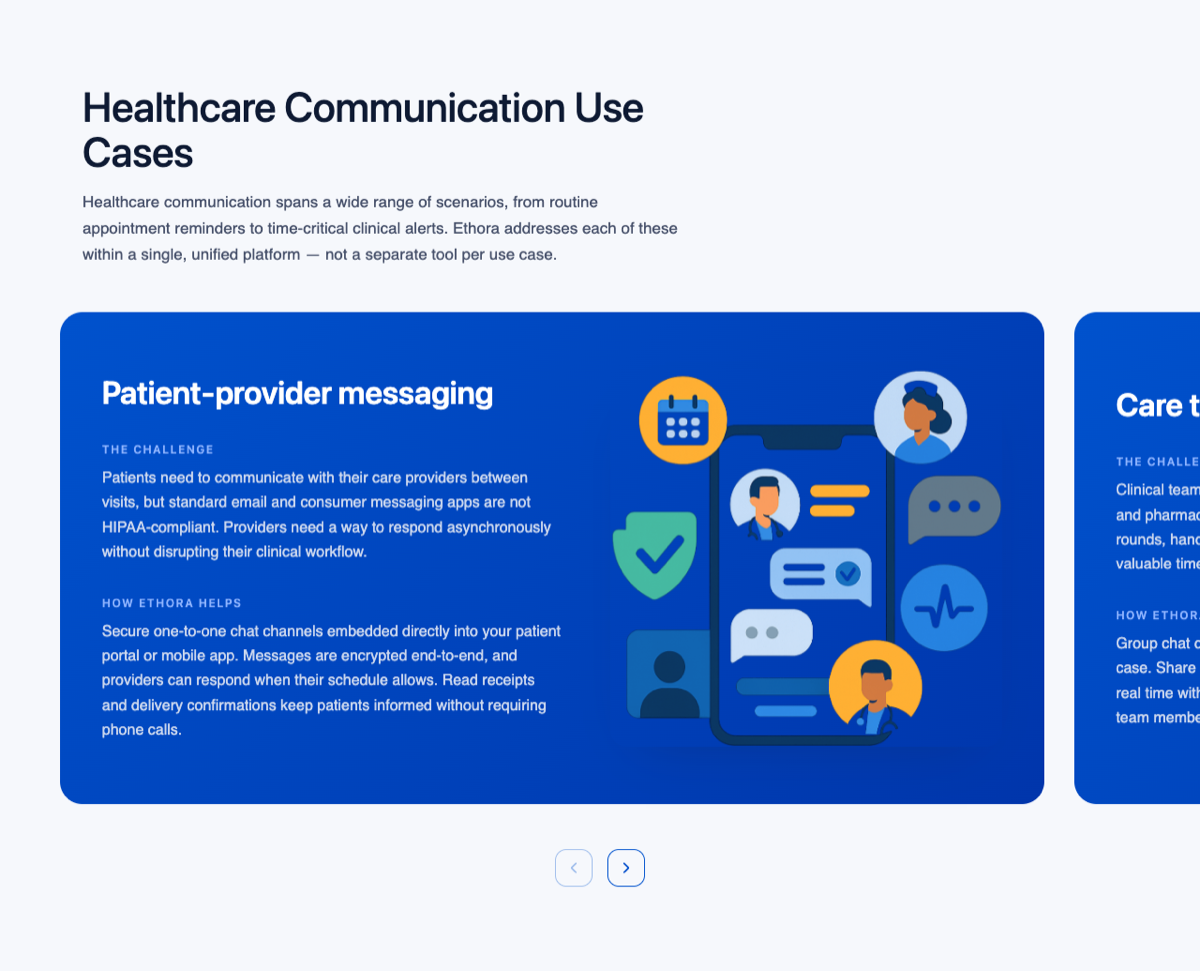
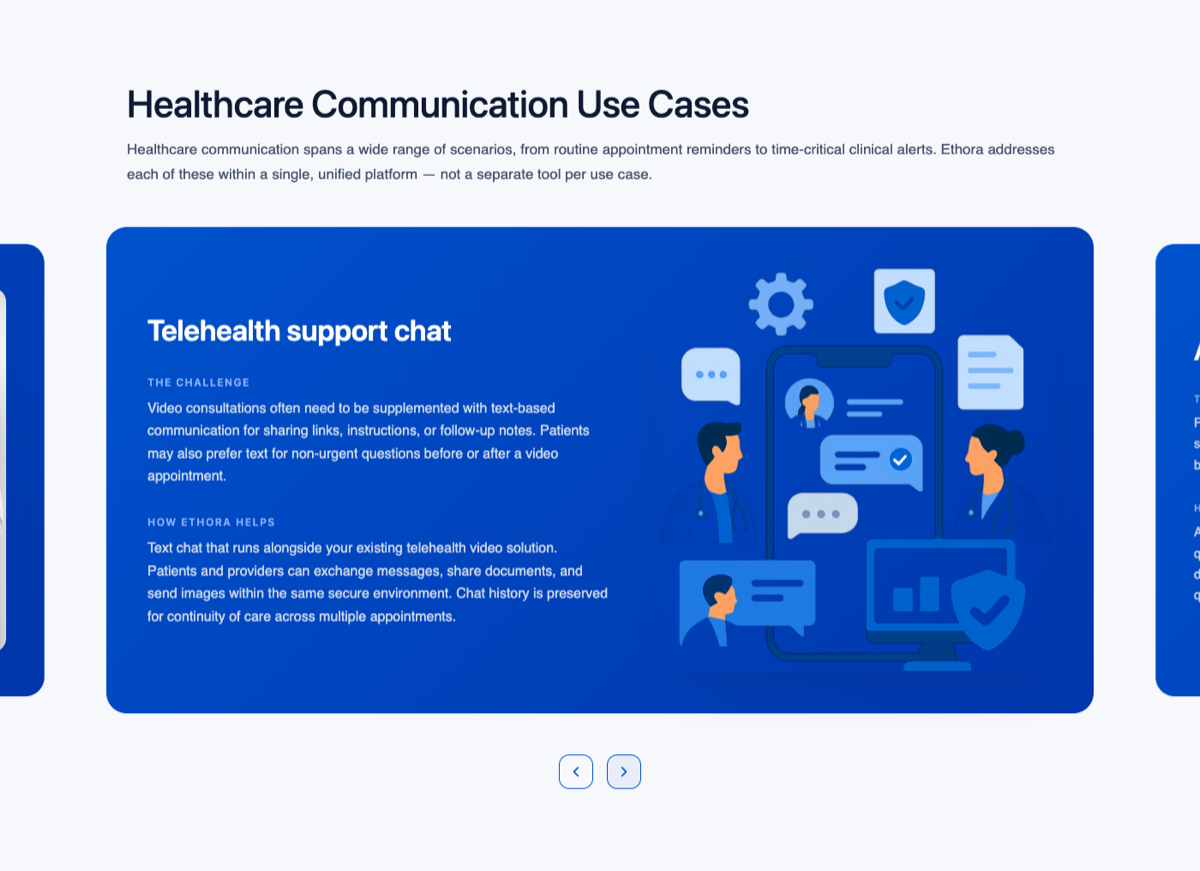
Cards carousel: centred active card, equal peeks, active-scale animation

diff --git a/references/BLOCKS.md b/references/BLOCKS.md
@@ -337,8 +337,7 @@ Row of case-study cards.
 ## 13. Cards carousel — `section-cards-carousel.php`
 
 Title + lead on top, then a **full-width** track of dark brand cards: each card has a
-**text column on the left and an image on the right**; the next card **peeks** from the
-right edge. Switch with the **centred** prev/next buttons (the brand `.slider-btn`
+**text column on the left and an image on the right**; the **active card is centred** and its neighbours **peek equally** on both sides (and scale up/down on switch). Switch with the **centred** prev/next buttons (the brand `.slider-btn`
 standard) **or by dragging / swiping** (mouse and touch). Text blocks stack vertically and
 are labelled. Best for use-cases or "challenge → solution" content. `'light' => true` for
 white cards instead of dark.